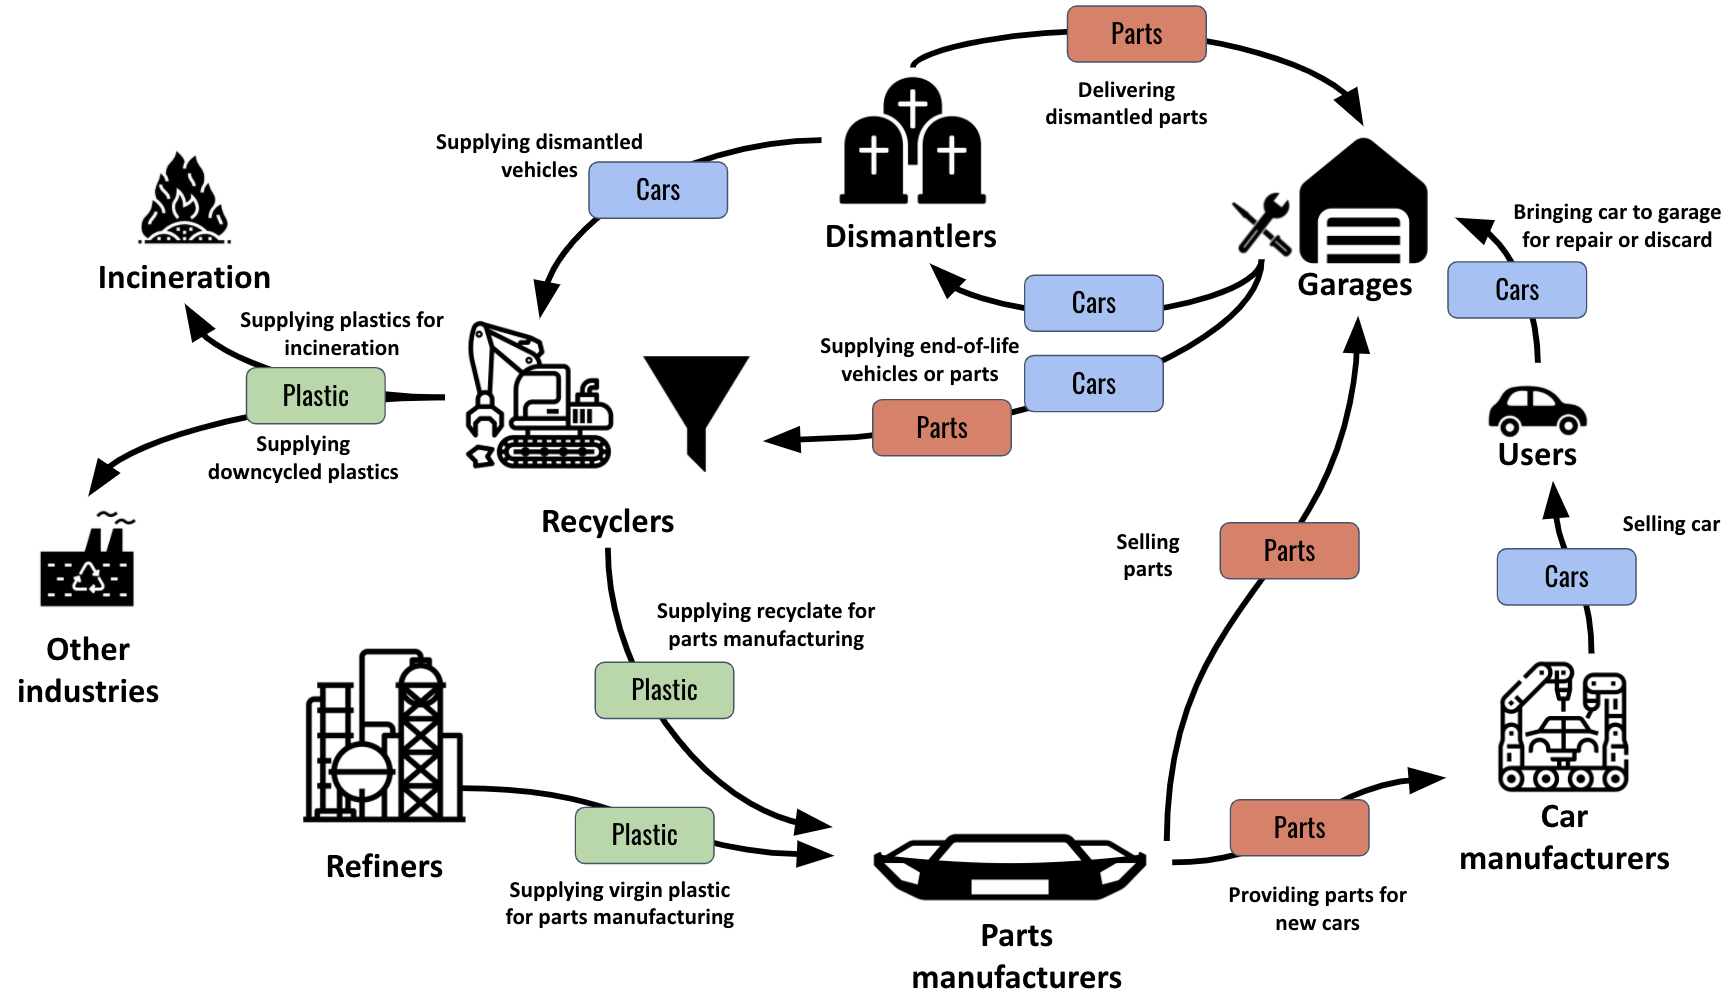
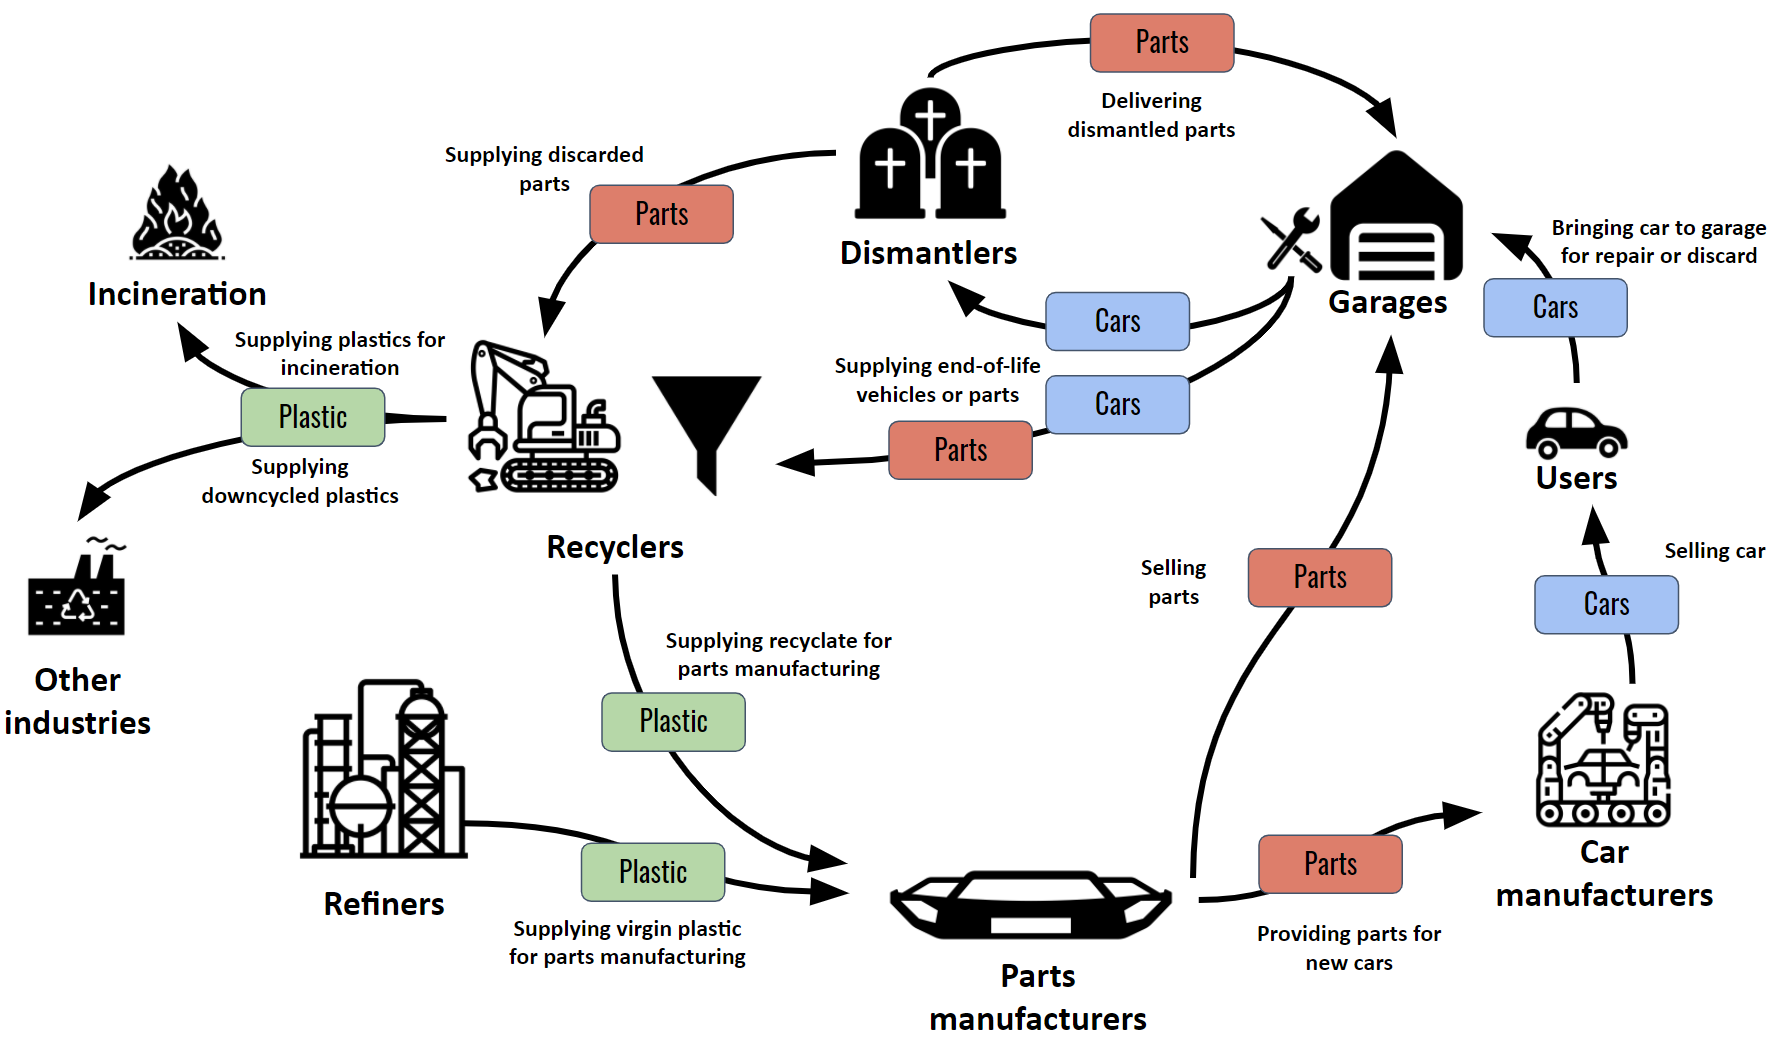
README update and material_flow diagram update

diff --git a/README.md b/README.md
@@ -1,6 +1,6 @@
 # The CEPAI Model
 
-The Circular Economy of Plastic in the Automotive Industry (CEPAI) Model is an agent-based simulation model that concerns the circular economy of plastic in the automotive industry within the Netherlands. 
+The Circular Economy of Plastic in the Automotive Industry (CEPAI) Model is an agent-based simulation model that concerns the circular economy of plastic in the automotive industry within the Netherlands. Experiments have been run on a small scale due to limitations of computing power. 
 
 ## Contributors
 - Max Reddel
@@ -28,79 +28,115 @@ The Circular Economy of Plastic in the Automotive Industry (CEPAI) Model is an a
 
 ## 1. General Remarks
 
-This is a project for the course SEN9120 Advanced Agent Based Modelling (2021/22 Q2) at TU Delft in collaboration with the RIVM.
-
----
+This is a project for the course SEN9120 Advanced Agent Based Modelling (2021/22 Q2) at TU Delft in collaboration with the RIVM. It is an Agent-based model developed for virtually testing policy effectiveness. The model is very modular and easily extendable.
 
 ## 2. Current State of the Project
 
-### 2.1 Changes in Stages and Steps
+Models come with limitations: they can not cover all aspects of real-life, but they can cover the most important aspects. The current implementation will be briefly discussed to give clarity of what is included.
 
-We ran into quite some problems with the two-stage-process of the agents. The potential solutions were not pretty. One such solution would have consisted in creating something like a `MarketAgent` which would take care of determining who gets what components from whom. Additional stages would have been necessary as well for this. To keep the design simple, we went back to square one and created a new design.
+### 2.1 Stages and Steps
 
-Now, the `GenericAgent` has the following three stages:
+To keep the design simple, a [StagedActivation](https://mesa.readthedocs.io/en/stable/apis/time.html) of the [Mesa](https://mesa.readthedocs.io/en/stable/overview.html) library in Python has been used for agent activation. This means that for all agents in a random order, a stage will be executed before going to the next stage in the time-step. Currently, there are three stages.
+
+The `GenericAgent`, the superclass of all agents, has the following three stages:
 - `get_all_components()` which gets or buys components from the agent's corresponding suppliers.
 - `process_components()` which manufactures, uses, or repairs specific components.
 - `update()` which updates the agent's demand for the next instant.
 
 #### Example
 
-Let's say for instance, a `PartsManufacturer` `pm1` is activated. This agent wants first to buy plastic from the `Refiner`s and `Recycler`s. The agent `pm1` will compute its preferences and thus determine to which supplier `pm1` wants to go to first to attempt to buy a specific kind of plastic. Then, it will go through the suppliers according to these preferences. When `pm1` is done with buying all plastic that it demands, it is the turn of the next `PartsManufacturer` `pm2`. When all agents executed the first stage, the second stage starts for all agents. When it is `pm1`'s turn, it will manufacture parts out of plastic (the analogous is the case for all other agents). In the last step, every agent will adjust its demand for the next instant.
+For illustration purposes, let's say for instance, a `PartsManufacturer` `pm1` is activated. This agent wants first to buy plastic from the `Refiner`s and `Recycler`s. The agent `pm1` will compute its preferences and thus determine to which supplier `pm1` wants to go to first to attempt to buy a specific kind of plastic. Then, it will go through the suppliers according to these preferences. When `pm1` is done with buying all plastic that it demands, it is the turn of the next `PartsManufacturer` `pm2`. When all agents executed the first stage, the second stage starts for all agents. When it is `pm1`'s turn, it will manufacture parts out of plastic (the analogous is the case for all other agents). In the last step, every agent will adjust its demand for the next instant.
 
-### 2.2 Changes in Components
+
+
+### 2.2 Components Specification
 
 Earlier, we had `PlasticType` where we had `REUSE`, `VIRGIN`, `RECYCLATE_LOW`, and `RECYCLATE_HIGH`. However, we needed to restructure a bit as we also want to include parts and cars. For this purpose, we have now components (see section on [Cars and Parts](#44-the-composition-of-cars-and-parts)).
 
-### 2.3 Changes in Agents (Updated)
+For materials flowing in the supply chain, components have been defined. Basically this means that distinctions are made between `CARS`, `PARTS`, `VIRGIN`, `RECYCLATE_HIGH` and `RECYCLATE_LOW` plastics. `CARS` are composed of N `PARTS` which are in turn composed of the different kinds of plastics. `PARTS` can be either `STANDARD` or `REUSED`. `CARS` are `FUNCTIONING` when in use, `BROKEN` when in need for repair and `END_OF_LIFE` when they reached the lifetime of the car.
 
-1. Add more details to the following agents:
-   - `Dismantler`
-      - `process_components` method is implemented. It Dismantles the car, reuses the STANDARD parts and adds them to the stock. As per the current version, all every part is reused only once. All the reused parts are sent to the `Recycler`.
+### 2.3 Agents
 
-         TODO/Suggestion: Add an `efficiency` factor for implementing multiple times REUSE of a part.
+Below a brief description of agents and their stages:
+   - `Dismantler` 
+      - `get_all_components`: A `Dismantler` will accept all `Cars` from the `Garage`.    
 
-      - `get_all_components` and  `get_component_from_suppliers` are updated. Now a `Dismantler` will accept all the cars from the `Garage`.
-
-         TODO: Create a flag if `stock[Component.CARS_FOR_DISMANTLER] == 0`. This can happen if somehow most `Garages` start sending all the cars to `Recyclers`. What should be done in this case? Think about implications?
-      - `update()` is implemented along with `adjust_future_prices`. 
-         TODO: Test `update()`
+      - `process_components`: It Dismantles the `Cars`, reuses the `STANDARD` `Parts` and adds them to the stock. As per the current version, all every `Part` is reused only once. All the reused `Parts` are sent to the `Recycler`.
+        
+      - `update`: Updates prices of parts to be reused according to the demand.
 
    - `Recycler`
-      - `process_components` method is implemented. This function extracts the plastic from both `CARS_FOR_SHREDDER` and `DISCARDED_PART`. `efficiency` of the `Recycler` determines how often can a plastic be recycled without degrading its quality. For instance, efficiency of recycler will control if RECYCLATE_HIGH will be recycled as RECYCLATE_HIGH RECYCLATE_LOW. VIRGIN plastic is always recycled as RECYCLATE_HIGH. RECYCLATE_HIGH present in the parts can be converted into RECYCLATE_LOW or RECYCLATE_HIGH depending on the `efficiency`. Similarly, RECYCLATE_LOW can either be discarded or again recycled as RECYCLATE_LOW.
+      - `get_all_components`: A `Recycler` will accept all `Cars` and parts from the `Garage` and `Dismantler`.    
 
-         TODO: Should we implement upcycling (i.e. RECYCLATE_LOW --> RECYCLATE_High)?
+      - `process_components`: Plastics are extracted from `Cars` and `Parts`. The `efficiency` of the recycler determines how often plastic can be recycled without degrading in quality. 
+        
+      - `update`: Updates prices of recyclate.  
+      
+   - `Refiner`
+      - `get_all_components`: A `Refiner` has unlimited supply in the model.
 
-         Also, `efficiency` can either be made constant or variable for each tick. What do you think is the best?
-      - `get_all_components` and  `get_component_from_suppliers` are updated. Now the `Recycler` will accept all the cars and discarded parts from the `Garage` and `Dismantler` respectively.
+      - `process_components`: A `Refiner` just delivers virgin plastics, the process of creating plastics out of base materials is out of the model scope.
+        
+      - `update`: Updates prices of virgin plastics.  
+      
+   - `Parts Manufacturer`
+      - `get_all_components`: A `Parts Manufacturer` will get virgin plastics and recyclate to produce plastic `Car` parts with.   
 
-      - `update()` is implemented along with `adjust_future_prices`. 
-         TODO: Test `update()`
+      - `process_components`: Plastic `Parts` are created of the plastic base materials.
+        
+      - `update`: Updates prices of `Parts` and demand for its `Parts` and the demand for base materials needed to produce these `Parts`.
+      
+   - `Car Manufacturer`
+      - `get_all_components`: A `Car Manufacturer` will get `Parts` to produce `Cars`.  
 
-PS: All these implementations are tested and are running as expected. Please let me know if you find a bug or want me to change something.
+      - `process_components`: `Cars` are assembled out of `Parts`.
+        
+      - `update`: Updates prices of `Cars`, demand for `Cars` and demand for `Parts` needed to produce these `Cars`.
+      
+   - `User`
+      - `get_all_components`: A `User` buys a `Car` in case it has no `Car`.   
 
-PSS: I found an additional bug which is quite similar to the problem Ryan faced. If its the same error then please ignore. In the `receive()` of `GenericAgent`, in the last line, the variable `supplies` is a list.  Therefore, `extend` or `+` should be used instead of `append`.
+      - `process_components`: The `User` uses the `Car`. In case the `Car` is `BROKEN` the user brings the `Car` to a garage.
+        
+      - `update`: Does nothing.
+      
+   - `Garage`
+      - `get_all_components`: A `Garage` gets `Parts` for repairing `Cars`.  
+
+      - `process_components`: `Cars` are repaired and returned to the rightful owner, the `User`.
+        
+      - `update`: Updates prices for repair of `Cars` and its demand for `Parts`.
+      
+   
+   
+
 
 ---
 ## 3. Repository Structure
 
 ```
 ./QONNECT/
-├── examples                  # Contains examples on how to run the model
-│   ├── simulation.ipynb   
-│   └── simulation.py                    
-├── images
+├── evidence_files                # Contains information on the verification and validation of the model
+├── examples                      # Contains examples on how to run the model
+│   ├── model_calibration.ipynb   # A notebook for calibrating the model's starting values  
+│   └── simulation.py
+├── experiments
+│   ├── output                    # Contains output data of the experiments
+│   ├── outputimages              # Contains the images generated in the data visualization
+│   ├── experiment.py             # Contains the experiments
+│   └── results.ipynb             # Contains data visualizations of the experiments
+├── images                        # Contains images for the report
 ├── model                                 
-│   ├── agents.py             # Contains all agents
-│   ├── cepai_model.py        # Contains main model
-│   ├── bigger_components.py  # Contains classes for Parts and Cars
-│   ├── enumerations.py       # Contains custom-made enumerations (Component, PartState, CarState, Brand)
-│   └── preferences.py        # Contains a Preferences class to determine which supplier an agent prefers
+│   ├── agents.py                 # Contains all agents
+│   ├── cepai_model.py            # Contains main model
+│   ├── bigger_components.py      # Contains classes for Parts and Cars
+│   ├── enumerations.py           # Contains custom-made enumerations (Component, PartState, CarState, Brand)
+│   └── preferences.py            # Contains a Preferences class to determine which supplier an agent prefers
 └── README.md          
 ```
 
-The `model` directory contains all model relevant components, including the main model `cepai_model.py`, `agents.py`, `bigger_components`, `enumerations`, and `preferences`. You can run the model by using the notebook `simulation.ipynb` or the script `simulation.py` from the `examples` directory. 
+The `model` directory contains all model relevant components, including the main model `cepai_model.py`, `agents.py`, `bigger_components`, `enumerations`, and `preferences`. You can run the model by using the script `simulation.py` from the `examples` directory. Running the same experiments can be done running the script `experiment.py` in the `experiments` directory. Consequently, the data can be visualized with the `results.ipynb` notebook.
 
----
 ## 4. The CEPAI Model
 
 ### 4.1 Agents
@@ -113,28 +149,25 @@ Every single agent inherits its attributes and methods from `GenericAgent`. A li
 |---------------------|-------|---------------------------------------------------------------------------------------------------------------|
 | `User`              | 1000  | A user of a car.                                                                                              |
 | `CarManufacturer`   | 4     | A facility that manufatures cars of a specific car brand with brand ϵ {VW, GM, Toyota, Mercedes}.             |
-| `PartsManufacturer` | 10    | A facility (= parts manufacturer or original equipment manufacturer) who takes plastic in and produces parts. |
-| `Refiner`           | 6    | A facility (= miners and refiners) that produces virgin plastic.                                               |
+| `PartsManufacturer` | 3     | A facility (= parts manufacturer or original equipment manufacturer) who takes plastic in and produces parts. |
+| `Refiner`           | 3     | A facility (= miners and refiners) that produces virgin plastic.                                              |
 | `Recycler`          | 1     | A facility (= shredder and post-shredder) that creates recyclate.                                             |
 | `Dismantler`        | 1     | A facility that dismantles cars.                                                                              |
-| `Garage`            | 20    | A facility that repairs cars or sends them for final processing.                                              |
+| `Garage`            | 2     | A facility that repairs cars or sends them for final processing.                                              |
 <figcaption align = "center"><b>Tab.1 - Agents</b></figcaption>
 
 
 ### 4.2 Model Flow 
 
-Figure 1 shows the various agents in this network and how several kinds of components (plastic, parts, and cars) flow through the network.
+Figure 1 shows the various agents in this network and how several kinds of components (plastic, parts, and cars) flow through the network. Normally, leftover recyclate would be used by other industries or for incineration. This flow is shown in the diagram, but not included in the model for reducing complexity.
 
 ![image info](images/material_flow.png)
 <figcaption align = "center"><b>Fig.1 - Material flow between the agents</b></figcaption>
 
-      TODO: Update the figure: `DISCARDED_PARTS` are sent from Dismantler to Recycler. 
 
 ### 4.3 Components
 
-The enumeration `Component` defines that there are different kinds of plastics, but also parts and cars. This comes in handy when dealing with polymorphic methods that handle stock and demand. The table below shows the different values in the first column. For the plastics, it is the case that both data types for stock and demand are floats. We refer here to mass in e.g., kilogram or tonnes. The data types for `PARTS` and `CARS` differs. A `Part` is a custom-made object that consists of a ratio of plastics and a state `PartState` which is either `STANDARD` or `REUSED`. A `Car` consist mainly of a number of `Part`s. So, the stocks for these two components are lists because they contain these objects. Their demand data types are integers, however. **And this has to be adjusted further!** 
-
-Currenlty, everything works. But for `PARTS` and `CARS`, it's a simple way of just stating how many parts and how many cars an agent wants/demands. We need to discuss how we want to proceed here.
+The enumeration `Component` defines that there are different kinds of plastics, but also parts and cars. This comes in handy when dealing with polymorphic methods that handle stock and demand. The table below shows the different values in the first column. For the plastics, it is the case that both data types for stock and demand are floats. We refer here to mass in e.g., kilogram or tonnes. The data types for `PARTS` and `CARS` differs. A `Part` is a custom-made object that consists of a ratio of plastics and a state `PartState` which is either `STANDARD` or `REUSED`. A `Car` consist mainly of a number of `Part`s. So, the stocks for these two components are lists because they contain these objects. Their demand data types are integers, however. 
 
 | Component        | Stock Data Type | Demand Data Type |
 |------------------|-----------------|------------------|
@@ -150,7 +183,7 @@ Currenlty, everything works. But for `PARTS` and `CARS`, it's a simple way of ju
 
 ### 4.4 The Composition of Cars and Parts
 
-Figure 2 shows what an instance of the `Car` class can look like. Additionally, we can see what a `Part` consists of. The number of parts can of course still be adjusted. 
+Figure 2 shows what an instance of the `Car` class can look like. Additionally, we can see what a `Part` consists of. The number of parts can of course still be adjusted in the model parameters.
 
 ![image info](images/car.png)
 <figcaption align = "center"><b>Fig.2 -The composition of cars and parts</b></figcaption>
@@ -170,5 +203,25 @@ The following sub-sections describe X, L, and M in more detail. An overview is p
 <figcaption align = "center"><b>Fig.3 -The XLRM framework applied to the CEPAI model</b></figcaption>
 
 ### 5.1 Metrics
+   - `M1`: Amount of virgin plastic. This equals the amount of virgin plastics in cars.
+   - `M2`: Amount of high-quality recyclate. This equals the amount of high-quality recyclate in cars.
+   - `M3`: Amount of low-quality recyclate. This equals the amount of low-quality recyclate in cars.
+   - `M4`: Number of reused parts. This equals the number of reused parts in cars.
+   - `M5`: Number of standard parts. This equals the number of standard parts in cars which are not reused.
+   - `M6`: Number of cars in garage. This equals the number of cars in the garage.
+   - `M7`: Amount of leakage. This equals the outflow of plastics which can not be used for producing parts in the car industry again.
+   - `M8`: Price of virgin plastic. This equals the average price of virgin plastics over all suppliers.
+   - `M9`: Price of recyclate. This equals the average price of recyclate over all suppliers.
+
 ### 5.2 Levers
+   - `L1`: Minimum requirement for reused parts. This policy applies to garages. It specifies the relative amount of reused parts garages have to use for repairing cars.
+   - `L2`: Minimum requirement for high-quality plastic. This policy applies to parts manufacturers. It specifies the relative amount of high-quality recyclate to be used for producing new parts.
+   - `L3`: Use better solvable adhesives. This policy applies to the design of cars/parts and to the production of them. However, it influences the recycler in the model. If better solvable adhesives are used for production, the process of recycling plastic becomes more efficient and more plastics can be recycled.
+   - `L4`: Include externality for virgin plastic. This policy applies to refiners. It makes virgin plastics more expensive. In the current model implementation, parts manufacturers actually do not make a trade-off between recyclate and virgin plastics. Therefore, this policy has no influence but with the current model it could have influence if this trade-off is included.
+   - `L5`: Minimum requirement for recyclate. This policy applies to parts manufacturers. Instead of specifying the relative amount of high-quality recyclate to be used for producing new parts, it specifies the relative amount of any recyclate to be used.
+
 ### 5.3 Uncertainties
+
+   - `X1`: Annual increase factor of oil price. The world runs out of oil, a base material which is primarily used for producing plastics. It makes virgin plastics more expensive. 
+   - `X2`: Annual probability for global oil shock. A probability which increases the oil price suddenly because of an event. It makes virgin plastics more expensive.
+   - `X3`: Annual increase of recycling efficiency. There is technological process in the plastic recycling/production industry. Either recycling processes may become more efficient of products better recyclable, both leading to a higher efficiency of recycling.
